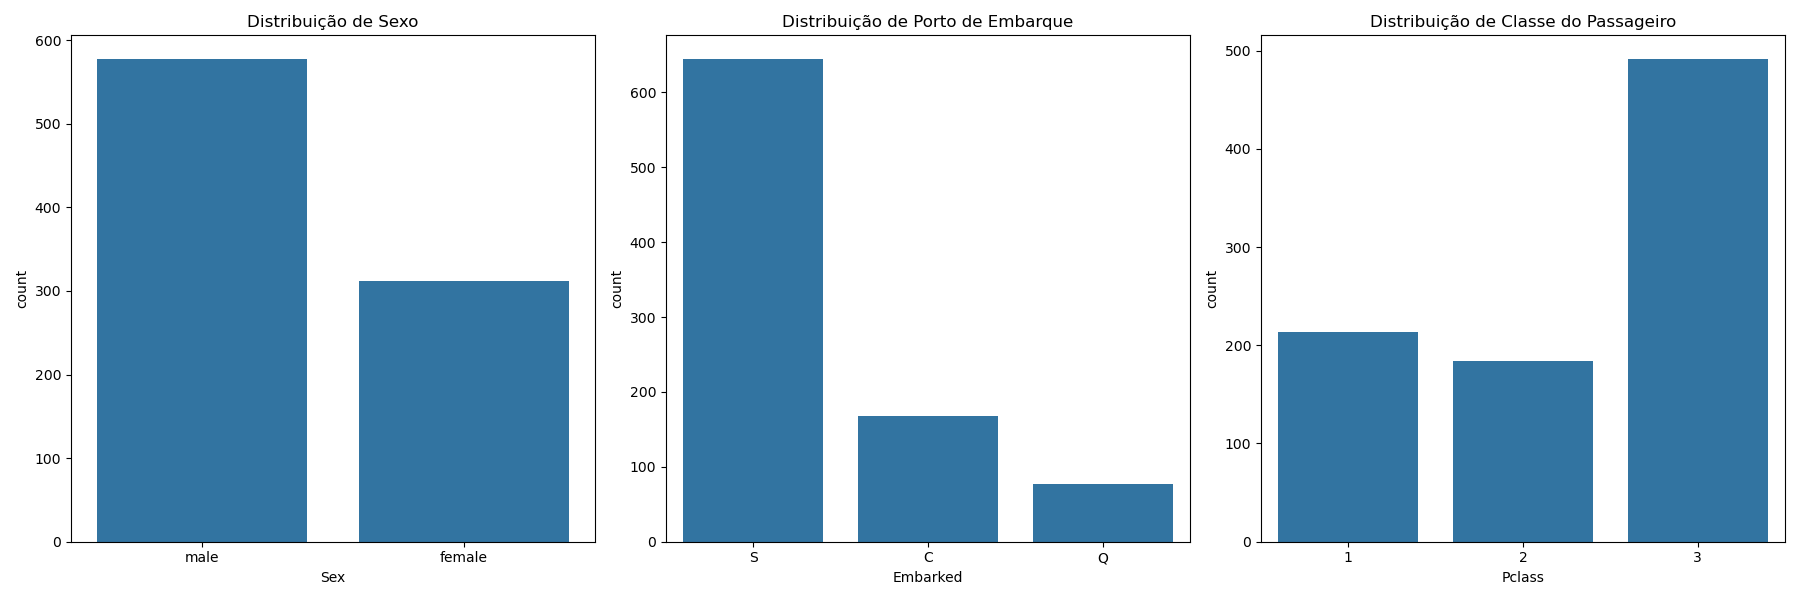
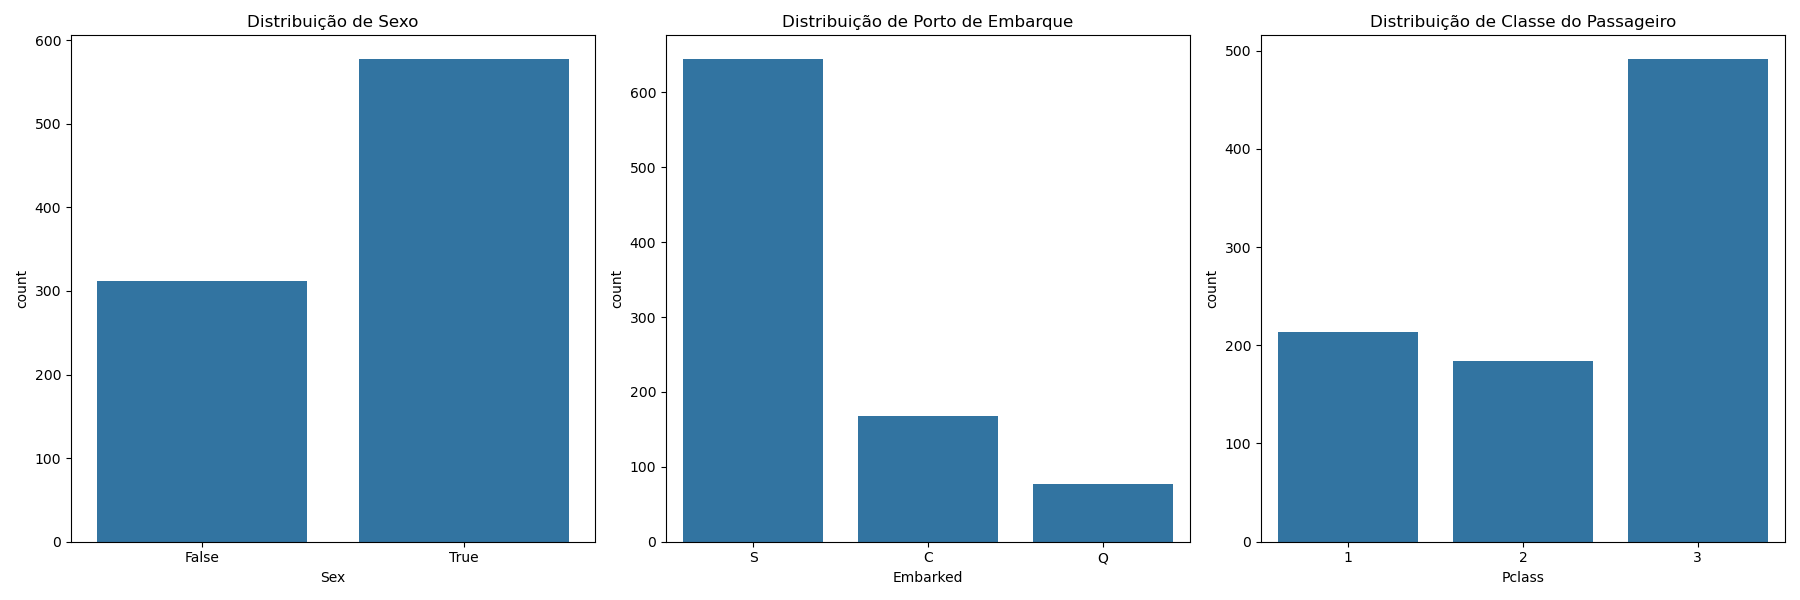
continua

Changed region(s): [[0.0311, 0.09, 0.3422, 0.48], [0.2489, 0.9, 0.28, 0.96], [0.0933, 0.9, 0.1244, 0.93]]

diff --git a/data_analyses/titanic_data/titanic.py b/data_analyses/titanic_data/titanic.py
@@ -2,7 +2,13 @@ import pandas as pd
 import numpy as np
 import matplotlib.pyplot as plt
 import seaborn as sns
-import random
+from scipy.stats import chi2_contingency
+from sklearn.preprocessing import StandardScaler
+from sklearn.preprocessing import LabelEncoder
+from sklearn.model_selection import train_test_split
+from sklearn.linear_model import LogisticRegression
+from sklearn.metrics import accuracy_score, confusion_matrix, roc_curve
+from sklearn.metrics import f1_score, recall_score, precision_score
 
 def fill_with_mode(column = None):
     """
@@ -116,6 +122,12 @@ sns.boxplot(x=train['Parch'], ax=ax[1,1])
 plt.savefig(images_path + 'boxplot_sns.png')
 plt.close()
 
+
+#Tratando variaveis categoricas
+
+train_dummies = pd.get_dummies(train, columns=['Sex'], drop_first=True) 
+train['Sex'] = train_dummies['Sex_male']
+train['Pclass'] = train['Pclass'].map({1: 1, 2: 2, 3: 3})
 # Usando Seaborn para visualizar a distribuição dos dados
 fig, ax = plt.subplots(2,2,figsize=(20, 14))
 sns.histplot(train['Age'], ax=ax[0,0], kde=True)
@@ -231,3 +243,46 @@ plt.ylabel('Taxa de Sobrevivência')
 plt.grid(axis='y', linestyle='--', alpha=0.7)
 plt.savefig(images_path + 'survival_rate_by_deck.png')
 plt.close()
+
+# Regressão Linear
+encoder = LabelEncoder()
+
+df_regression = train.drop(['PassengerId','Name','Ticket','Cabin', 'Embarked'],axis=1)
+df_regression['Deck'] = encoder.fit_transform(df_regression['Deck'])
+
+x = df_regression.drop(['Survived'], axis=1)
+y = df_regression['Survived']
+
+x_train, x_test, y_train, y_test = train_test_split(x, y, test_size=0.3, random_state=42)
+
+sd = StandardScaler()
+x_train = sd.fit_transform(x_train)
+x_test = sd.fit_transform(x_test)
+
+classifier = LogisticRegression(random_state=0)
+classifier.fit(x_train, y_train)
+
+y_pred = classifier.predict(x_test)
+
+accuracy_score(y_test, y_pred)
+conf_m = confusion_matrix(y_test, y_pred)
+
+
+sns.heatmap(conf_m, annot=True)
+plt.savefig(images_path + 'confusion_matrix')
+plt.close()
+
+
+# Plotar roc curv
+prob = classifier.predict_proba(x_test)
+prob = prob[:,1]
+fpr, tpr, trash = roc_curve(y_test, prob)
+
+plt.plot(fpr, tpr)
+plt.title('Curva ROC')
+plt.savefig(images_path + 'roc_curve.png')
+plt.close()
+
+print(precision_score(y_test,y_pred))
+print(recall_score(y_test,y_pred))
+print(f1_score(y_test,y_pred))
